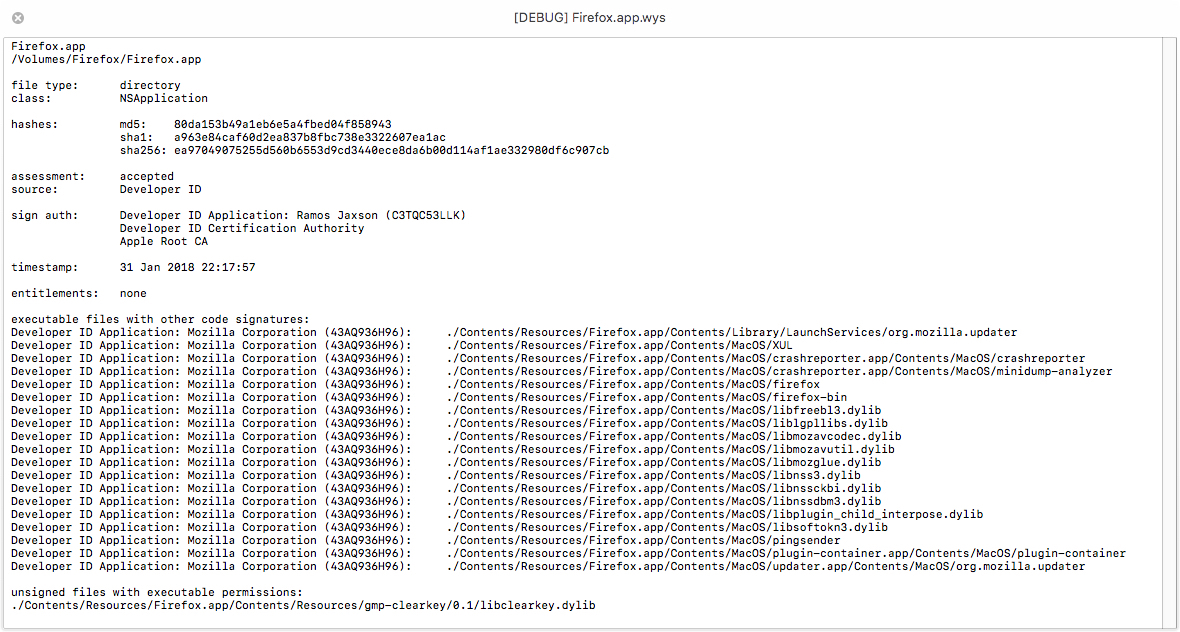
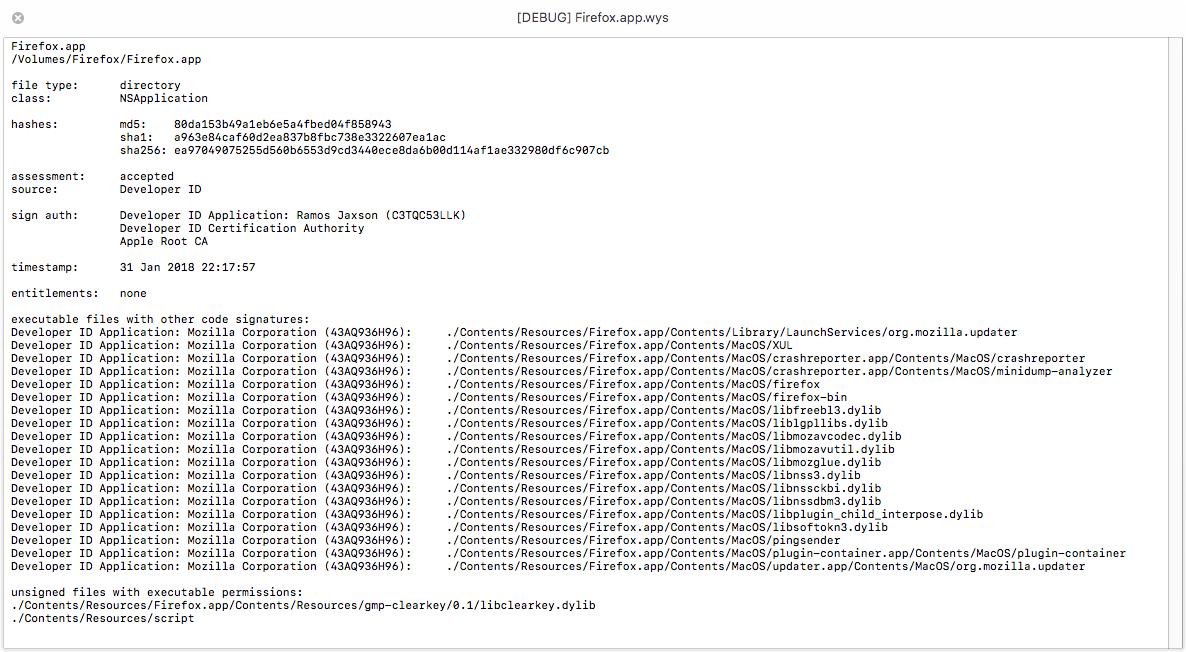
v0.96.1: support for text files + update screengrab + todo

Changed region(s): [[0.0, 0.0, 0.9763, 0.962], [0.0, 0.2405, 0.061, 0.3608]]

diff --git a/README.md b/README.md
@@ -34,7 +34,9 @@ In addition to the default WhatsYourSign functionality, **wys** also:
 * Change keyboard shortcut to resolve any potential conflicts
 
 ## Beta status
-* still needs testing, especially for executable deep scan (any misses? problem: shell scripts as simple ASCII text)
+* still needs testing, especially for executable deep scan (any misses? too much?)
+* find revocation list to manually check certificates & not rely on spctl
+* recheck spctl commands, maybe add for installer packages
 * might need a one-line result at the top, similar to WhatsYourSign appex
 
 ## Screengrabs
@@ -49,8 +51,9 @@ In addition to the default WhatsYourSign functionality, **wys** also:
 ![grab2](https://github.com/JayBrown/wys-WhatsYourSign-shell-script-version/blob/master/img/grab_wys-malware.jpg)
 
 #### Malware application with fake codesigning certificate (OSX.CreativeUpdater)
-*Compare the main executable code signature (fake) with the other signature (genuine by Mozilla).*
-*This malware is distributed as an app bundle within an app bundle.*
+*Compare the main executable code signature (fake) with the other signature (genuine by Mozilla). This malware is distributed as an app bundle within an app bundle.*
+
+*Notice the bogey `script` file, which starts the download of the cryptominer malware.*
 
 ![grab13](https://github.com/JayBrown/wys-WhatsYourSign-shell-script-version/blob/master/img/grab_wys-malware2.jpg)
 
